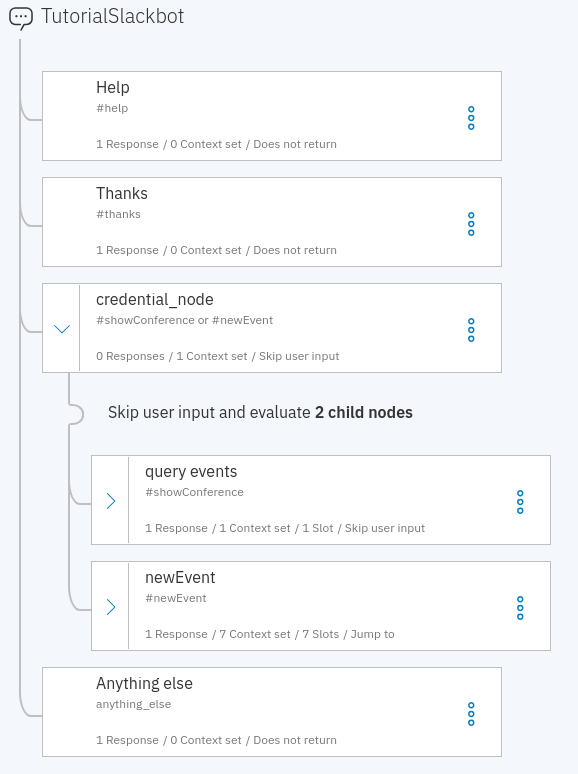
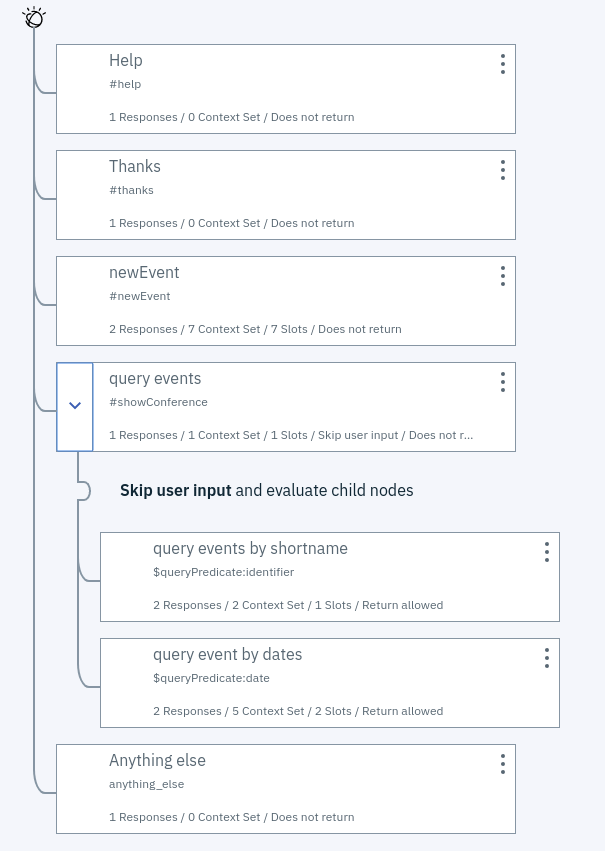
change Slackbot to use webhook

Changed region(s): [[0.0, 0.0, 0.9343, 0.9922], [0.872, 0.6202, 0.9343, 0.6512], [0.8097, 0.062, 0.8408, 0.093]]

diff --git a/slack-chatbot-database-watson.md b/slack-chatbot-database-watson.md
@@ -2,8 +2,8 @@
 subcollection: solution-tutorials
 copyright:
   years: 2018, 2019
-lastupdated: "2019-11-25"
-lasttested: "2019-11-14"
+lastupdated: "2019-12-11"
+lasttested: "2019-12-11"
 ---
 
 {:shortdesc: .shortdesc}
@@ -33,7 +33,7 @@ The Slack integration channels messages between Slack and {{site.data.keyword.co
 This tutorial uses the following runtimes and services:
    * [{{site.data.keyword.conversationfull}}](https://{DomainName}/catalog/services/conversation)
    * [{{site.data.keyword.openwhisk_short}}](https://{DomainName}/functions/)
-   * [{{site.data.keyword.Db2_on_Cloud_long}} ](https://{DomainName}/catalog/services/db2) or [{{site.data.keyword.databases-for-postgresql}}](https://{DomainName}/catalog/services/databases-for-postgresql)
+   * [{{site.data.keyword.Db2_on_Cloud_long}} ](https://{DomainName}/catalog/services/db2)
 
 
 This tutorial may incur costs. Use the [Pricing Calculator](https://{DomainName}/estimator/review) to generate a cost estimate based on your projected usage.
@@ -93,9 +93,9 @@ In this section, you are going to set up the needed services and prepare the env
    ibmcloud resource service-instance-create eventConversation conversation free us-south
    ```
    {: pre}
-6. Next, you are going to register actions for {{site.data.keyword.openwhisk_short}} and bind service credentials to those actions. Some of the actions are enabled as web actions and a secret is set to prevent unauthorized invocations. Choose a secret and pass it in as parameter - replace **YOURSECRET** accordingly.
+6. Next, you are going to register actions for {{site.data.keyword.openwhisk_short}} and bind service credentials to those actions. The **dispatch** action is enabled as web action and a secret is set to prevent unauthorized invocations. Choose a secret and pass it in as parameter - replace **YOURSECRET** accordingly.
 
-   One of the actions gets invoked to create a table in {{site.data.keyword.Db2_on_Cloud_short}}. By using an action of {{site.data.keyword.openwhisk_short}}, you neither need a local Db2 driver nor have to use the browser-based interface to manually create the table. To perform the registration and setup, run the line below and this will execute the **setup.sh** file which contains all the actions. If your system does not support shell commands, copy each line out of the file **setup.sh** and execute it individually.
+   One of the actions gets invoked to create a table in {{site.data.keyword.Db2_on_Cloud_short}}. By using an action of {{site.data.keyword.openwhisk_short}}, you neither need a local Db2 driver nor have to use the browser-based interface to manually create the table. To perform the registration and setup, run the line below and this will execute the **setup.sh** script. If your system does not support shell commands, copy each line out of the file **setup.sh** and execute it individually.
 
    ```sh
    sh setup.sh YOURSECRET "dashdb-for-transactions"
@@ -103,42 +103,39 @@ In this section, you are going to set up the needed services and prepare the env
    {: pre}
 
    **Note:** By default the script also inserts few rows of sample data. You can disable this by outcommenting the following line in the above script: `#ibmcloud fn action invoke slackdemo/db2Setup -p mode "[\"sampledata\"]" -r`
-7.  Extract the namespace information for the deployed actions.
+7.  Obtain the URI for the deployed **dispatch** action.
 
    ```sh
-   ibmcloud fn action list | grep eventInsert
+   ibmcloud fn action get slackdemo/dispatch --url
    ```
    {: pre}
 
-   Note down the part before **/slackdemo/eventInsert**, it is the namespace. You need it in the next section.
+   Keep this information available for the next section.
 
 ## Load the skill / workspace
 In this part of the tutorial you are going to load a pre-defined workspace or skill into the {{site.data.keyword.conversationshort}} service.
 1. In the [{{site.data.keyword.Bluemix_short}} Resource List](https://{DomainName}/resources) open the overview of your services. Locate the instance of the {{site.data.keyword.conversationshort}} service created in the previous section. Click on its entry and then the service alias to open the service details.
 2. Click on **Launch Watson Assistant** to get to the {{site.data.keyword.conversationshort}} Tool.
 3. On the left navigation select **Skills**, then click **Create skill**, continue with **Next** and the preselected **Dialog skill**, finally click on **Import skill**.
-4. In the dialog, after clicking **Choose JSON file**, select the file **assistant-skill.json** from the local directory. Click **Import**. This creates a new skill named **TutorialSlackbot**.
+4. In the dialog, after clicking **Choose JSON file**, select the file **skill-TutorialSlackbot.json** from the local directory. Click **Import**. This creates a new skill named **TutorialSlackbot**.
 5. On the left click on **Dialog** to see the dialog nodes. You can expand them to see a structure like shown below.
 
-   The dialog has nodes to handle questions for help and simple "Thank You". The node **newEvent** and it's child gather the necessary input and then call an action to insert a new event record into Db2.
+   The dialog has nodes to handle questions for help and simple "Thank You". The node **newEvent** gathers the necessary input and then invokes the webhook to insert a new event record into Db2.
 
    The node **query events** clarifies whether events are searched by their identifier or by date. The actual search and collecting the necessary data are then performed by the child nodes **query events by shortname** and **query event by dates**.
 
-   The **credential_node** sets up the secret for the dialog actions and the information about the Cloud Foundry organization. The latter is needed for invoking the actions.
-
   Details will be explained later below once everything is set up.
   ![](images/solution19/SlackBot_Dialog.png)   
-6. Click on the dialog node **credential_node**, open the JSON editor by clicking on the menu icon on the right of **Then set context**.
+6. On the left, click on **Options** and then on **Webhooks**. 
 
-   Replace the value **FN_NAMESPACE** for the variable **fn_namespace** with the namespace information which you retrieved earlier. Do not enter any leading slash (`/`). Next, change **YOURSECRET** for **web_action_key** to your actual secret from before. Close the JSON editor by clicking on the icon again.
-   ![](images/solution19/Slackbot_credentials.png)   
+   Replace the value for **URL** with the one obtained in the previous section. Add `.json` to the URL to indicate that [JSON data should be returned](https://{DomainName}/docs/openwhisk?topic=cloud-functions-actions_web#return_json). Next, replace **YOURSECRET** in **HEADER VALUE** with your actual value that you set earlier.
 
 7. Click the **Try it** button on the upper right. The chatbot should be functional now. Enter the phrase "show event by date 2019". It should return event information. If this is not the case, make sure the information entered in step 6 is correct.
 
 ## Create an assistant and integrate with Slack
 
 Now, you will create an assistant associated with the skill from before and integrate it with Slack.
-1. Click on **Assistants** in the top left, then click on **Create assistant**.
+1. Click on **Assistants** in the top left navigation, then click on **Create assistant**.
 2. In the dialog, fill in **TutorialAssistant** as name, then click **Create assistant**. On the next screen, choose **Add dialog skill**. Thereafter, choose **Add existing skill**, pick **TutorialSlackbot** from the list and add it.
 3. After adding the skill, click **Add integration**, then from the list of **Third-party integrations** select **Slack**.
 4. Follow the step by step instructions to integrate your chatbot with Slack. More information about it is available in the topic [Integrating with Slack](https://{DomainName}/docs/services/assistant?topic=assistant-deploy-slack).
@@ -177,7 +174,7 @@ In the [{{site.data.keyword.Bluemix_short}} Resource List](https://{DomainName}/
 ## Expand the tutorial
 Want to add to or change this tutorial? Here are some ideas:
 1. Add search capabilities to, e.g., wildcard search or search for event durations ("give me all events longer than 8 hours").
-2. Use {{site.data.keyword.databases-for-postgresql}} instead of {{site.data.keyword.Db2_on_Cloud_short}}. The [GitHub repository for this Slackbot tutorial](https://github.com/IBM-Cloud/slack-chatbot-database-watson) already has code to support {{site.data.keyword.databases-for-postgresql}}.
+2. Use {{site.data.keyword.databases-for-postgresql}} instead of {{site.data.keyword.Db2_on_Cloud_short}}.
 3. Add a weather service and retrieve forecast data for the event date and location.
 4. [Control the encryption keys for your database by adding {{site.data.keyword.keymanagementservicelong_notm}}](https://{DomainName}/docs/services/Db2onCloud?topic=Db2onCloud-key-protect).
 5. Export event data as iCalendar **.ics** file.
